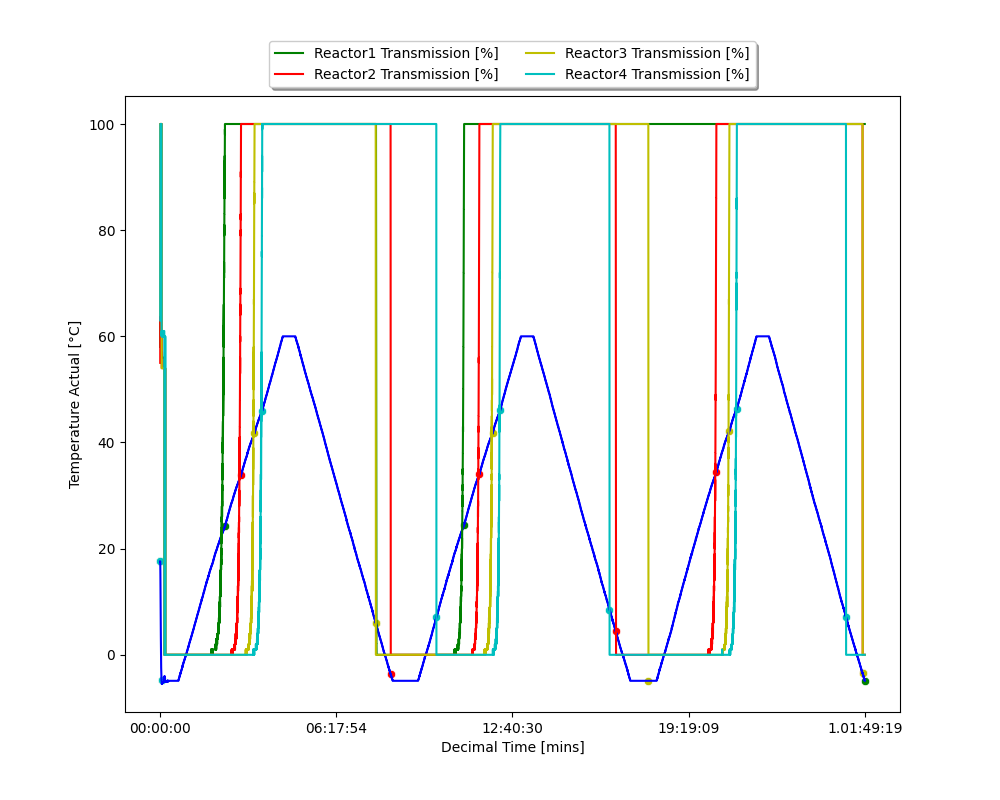
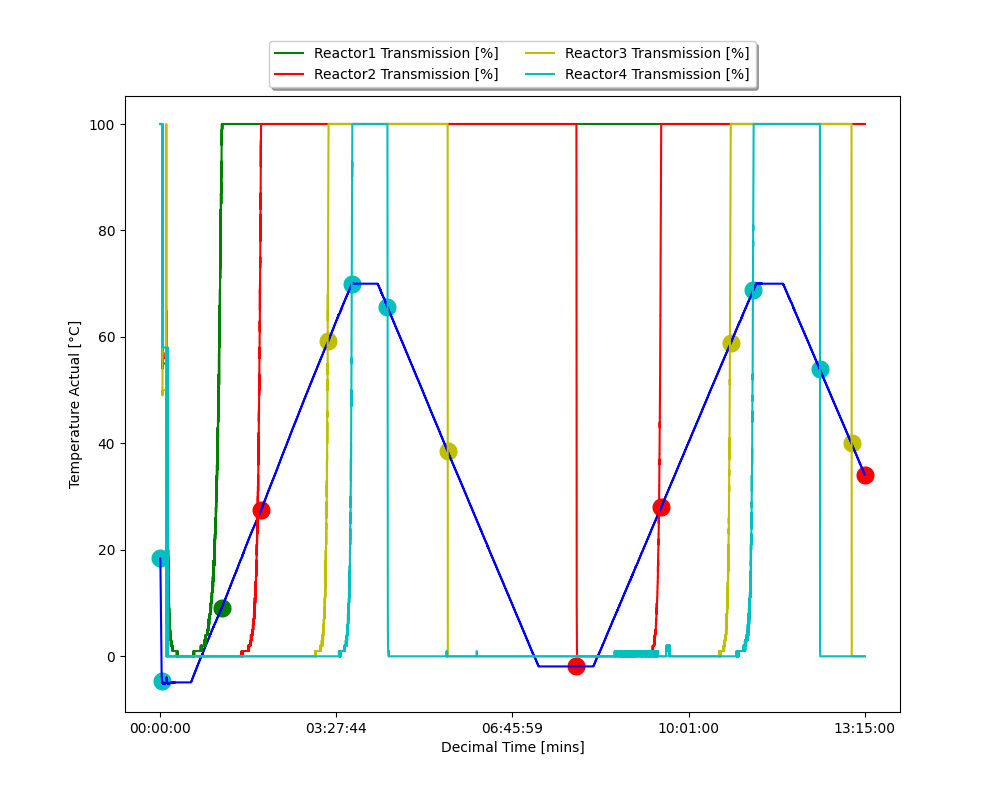
code refactor

diff --git a/utils.py b/utils.py
@@ -17,16 +17,14 @@ def get_columns(dataframe):
   Returns:
       list: A list of column names that partially match the strings in the columns_to_find list.
   """
-  columns_to_find = ["Decimal", "Temperature Actual", "Reactor"]
+  columns_to_find = {"Decimal", "Temperature Actual", "Reactor"}
   columns_to_extract = []
   for col in dataframe.columns:
-    for keyword in columns_to_find:
-      if keyword.lower() in col.lower():  # Case-insensitive matching
-        # Check for partial match but avoid full match
-        if col.lower() != keyword.lower():
-          columns_to_extract.append(col)
-          break  # Stop searching for the current column after a match is found
+        if any(keyword.lower() in col.lower() and col.lower() != keyword.lower() for keyword in columns_to_find):
+            columns_to_extract.append(col)  # Stop searching for the current column after a match is found
   return columns_to_extract
+
+
 
 def get_block_data(dataframe: pd.DataFrame) -> pd.DataFrame:
     """_summary_
@@ -38,10 +36,8 @@ def get_block_data(dataframe: pd.DataFrame) -> pd.DataFrame:
         pd.DataFrame: _description_
     """
 
-    index = dataframe[dataframe["Crystal16 Data Report File"] == "Data Block"].index
-    index = index.to_list()
-
-    raw_data = dataframe.iloc[index[0] :, :].reset_index(drop=True)
+    index = dataframe[dataframe["Crystal16 Data Report File"] == "Data Block"].index[0]
+    raw_data = dataframe.iloc[index :, :].reset_index(drop=True)
     raw_data.columns = raw_data.iloc[0]
     raw_data = raw_data.iloc[1:]
     raw_data.dropna(how='any', inplace=True)
@@ -53,6 +49,40 @@ def get_block_data(dataframe: pd.DataFrame) -> pd.DataFrame:
 
     return final_dataframe
 
+# def get_block_data(dataframe: pd.DataFrame) -> pd.DataFrame:
+#     index = dataframe[dataframe["Crystal16 Data Report File"] == "Data Block"].index[0]
+#     raw_data = dataframe.iloc[index:].copy()  # Copy to avoid modifying the original DataFrame
+#     raw_data.columns = raw_data.iloc[0]
+#     raw_data = raw_data.iloc[1:]
+#     raw_data = raw_data.dropna(how='any')
+#     raw_data = raw_data.loc[:, get_columns(raw_data)]
+#     return raw_data
+
+def convert_datatype(dataframe: pd.DataFrame) -> pd.DataFrame:
+    """Converts columns of a DataFrame to specified data types.
+
+    Args:
+        dataframe (pd.DataFrame): The DataFrame to convert data types.
+
+    Returns:
+        pd.DataFrame: The DataFrame with converted data types.
+    """
+    convert_dict: dict[str, type] = {
+        'Decimal Time [mins]': object,  # Assuming you don't want to convert time column
+        'Temperature Actual [°C]': float,
+        'Reactor1 Transmission [%]': int,
+        'Reactor2 Transmission [%]': int,
+        'Reactor3 Transmission [%]': int,
+        'Reactor4 Transmission [%]': int
+    }
+
+    for col, dtype in convert_dict.items():
+        try:
+            dataframe[col] = dataframe[col].astype(dtype)
+        except KeyError:
+            pass  # Skip if the column doesn't exist in the DataFrame
+
+    return dataframe
 
 def peak_detection(df, column):
     cloud_clear = {}
@@ -81,28 +111,8 @@ def peak_detection(df, column):
         exec(f"{['clear', 'cloud'][i]} = pd.DataFrame(data=temp_df)")
     return locals()['clear'], locals()['cloud'], peaks
 
-def convert_datatype(dataframe: pd.DataFrame) -> pd.DataFrame:
-    """_summary_
 
-    Args:
-        dataframe (pd.DataFrame): _description_
 
-    Returns:
-        pd.DataFrame: _description_
-    """
-    convert_dict = {
-    'Decimal Time [mins]': object,  # Assuming you don't want to convert time column
-    'Temperature Actual [°C]': float,
-    'Reactor1 Transmission [%]': int,
-    'Reactor2 Transmission [%]': int,
-    'Reactor3 Transmission [%]': int,
-    'Reactor4 Transmission [%]': int}
-
-    for col in convert_dict:
-        if col in dataframe.columns:
-           dataframe[col] =dataframe[col].astype(convert_dict[col])
-           
-    return dataframe
 
 def get_clear_and_cloud(dataframe: pd.DataFrame) -> dict:
     """_summary_
@@ -125,92 +135,171 @@ def get_clear_and_cloud(dataframe: pd.DataFrame) -> dict:
     return clear_dataframe, cloud_dataframe
 
 
+# def get_experiments_details(dataframe: pd.DataFrame) -> pd.DataFrame:
+#     """_summary_
+
+#     Args:
+#         dataframe (pd.DataFrame): raw data dataframe
+
+#     Returns:
+#         pd.DataFrame: extracted dataframe which will have information about reactors
+#     """
+   
+#     exp_index = dataframe[dataframe["Crystal16 Data Report File"] == "Experiment details"].index
+#     exp_idx = exp_index.to_list()
+#     labjournal_index = dataframe[dataframe["Crystal16 Data Report File"] == "Labjournal"].index
+#     labjournal_idx = labjournal_index.to_list()
+#     experiment_dataframe = dataframe.iloc[int(exp_idx[0]): labjournal_idx[0], :]
+#     # Filter rows where the first column contains "Reactor"
+#     reactor_rows = experiment_dataframe[experiment_dataframe.iloc[:, 0].str.contains('Reactor', na=False)]
+#     # Extract values from the first two columns
+#     extracted_data = reactor_rows.iloc[:, :2]
+
+#     return extracted_data
+
 def get_experiments_details(dataframe: pd.DataFrame) -> pd.DataFrame:
-    """_summary_
+    """Extracts details about reactors from the raw data.
 
     Args:
-        dataframe (pd.DataFrame): raw data dataframe
+        dataframe (pd.DataFrame): Raw data DataFrame.
 
     Returns:
-        pd.DataFrame: extracted dataframe which will have information about reactors
+        pd.DataFrame: DataFrame containing information about reactors.
     """
-   
-    exp_index = dataframe[dataframe["Crystal16 Data Report File"] == "Experiment details"].index
-    exp_idx = exp_index.to_list()
-    labjournal_index = dataframe[dataframe["Crystal16 Data Report File"] == "Labjournal"].index
-    labjournal_idx = labjournal_index.to_list()
-    experiment_dataframe = dataframe.iloc[int(exp_idx[0]): labjournal_idx[0], :]
-    # Filter rows where the first column contains "Reactor"
-    reactor_rows = experiment_dataframe[experiment_dataframe.iloc[:, 0].str.contains('Reactor', na=False)]
-    # Extract values from the first two columns
-    extracted_data = reactor_rows.iloc[:, :2]
+    exp_index = dataframe[dataframe["Crystal16 Data Report File"] == "Experiment details"].index[0]
+    labjournal_index = dataframe[dataframe["Crystal16 Data Report File"] == "Labjournal"].index[0]
+    experiment_dataframe = dataframe.loc[exp_index + 1: labjournal_index - 1]
+    return experiment_dataframe[experiment_dataframe.iloc[:, 0].str.contains('Reactor', na=False)]
 
-    return extracted_data
+
+
+# def get_reactor_info(extracted_dataframe: pd.DataFrame) -> dict:
+#     """_summary_
+
+#     Args:
+#         extracted_dataframe (pd.DataFrame): extracted dataframe which will have information about reactors
+
+#     Returns:
+#         dict: reactor information dictionary
+#     """
+#     reactor_info = {}
+#     for i in range(extracted_dataframe.shape[0]):
+#         reactor_name = extracted_dataframe.iloc[i, 0]
+#         val = extracted_dataframe.iloc[i, 1]
+#         conc = val.split('ml')[0] + "ml"
+#         solvent = val.split("in")[-1]
+#         reactor_info[reactor_name] = {'conc': conc, 'solvent': solvent}
+
+#     return reactor_info
 
 
 def get_reactor_info(extracted_dataframe: pd.DataFrame) -> dict:
-    """_summary_
+    """Extracts information about reactors from the extracted DataFrame.
 
     Args:
-        extracted_dataframe (pd.DataFrame): extracted dataframe which will have information about reactors
+        extracted_dataframe (pd.DataFrame): Extracted DataFrame containing information about reactors.
 
     Returns:
-        dict: reactor information dictionary
+        dict: Reactor information dictionary.
     """
     reactor_info = {}
-    for i in range(extracted_dataframe.shape[0]):
-        reactor_name = extracted_dataframe.iloc[i, 0]
-        val = extracted_dataframe.iloc[i, 1]
+    for index, row in extracted_dataframe.iterrows():
+        reactor_name = row.index[0]  # Get the name of the reactor from the index
+        val = row.iloc[0]  # Get the value associated with the reactor
         conc = val.split('ml')[0] + "ml"
         solvent = val.split("in")[-1]
         reactor_info[reactor_name] = {'conc': conc, 'solvent': solvent}
-
     return reactor_info
 
 
+
+# def plot_reactor(final_dataframe, clear_dataframe, cloud_dataframe):
+#    # Define colors and markers for clear and cloud data
+#     marker = 'o'
+#     # Create a new figure
+#     fig, ax = plt.subplots(figsize=(10, 8))
+#     # Plot temperature and transmission for each reactor
+#     for reactor_col in final_dataframe.columns:
+#         if 'Temperature' in reactor_col:
+#             sns.lineplot(data=final_dataframe, x='Decimal Time [mins]', y=reactor_col, color='b')
+#         elif 'Transmission' in reactor_col:
+#             reactor_num = reactor_col.split()[0][-1]  # Extract reactor number from column name
+#             clear_data = clear_dataframe[reactor_col]['Temps']
+#             cloud_data = cloud_dataframe[reactor_col]['Temps']
+#             clear_time = clear_dataframe[reactor_col]['Time']
+#             cloud_time = cloud_dataframe[reactor_col]['Time']
+            
+#             if reactor_num == '1':
+#                 sns.lineplot(data=final_dataframe, x='Decimal Time [mins]', y=reactor_col, color='g', label = reactor_col, ax= ax)
+#                 sns.scatterplot(x=clear_time, y=clear_data, color='g', marker=marker, ax= ax)
+#                 sns.scatterplot(x=cloud_time, y=cloud_data, color='g', marker=marker, ax= ax)
+#             elif reactor_num == '2':
+#                 sns.lineplot(data=final_dataframe, x='Decimal Time [mins]', y=reactor_col, color='r', label = reactor_col, ax= ax)
+#                 sns.scatterplot(x=clear_time, y=clear_data, color='r', marker=marker, ax= ax)
+#                 sns.scatterplot(x=cloud_time, y=cloud_data, color='r', marker=marker, ax= ax)
+#             elif reactor_num == '3':
+#                 sns.lineplot(data=final_dataframe, x='Decimal Time [mins]', y=reactor_col, color='y', label = reactor_col, ax= ax)
+#                 sns.scatterplot(x=clear_time, y=clear_data, color='y', marker=marker, ax= ax)
+#                 sns.scatterplot(x=cloud_time, y=cloud_data, color='y', marker=marker, ax= ax)
+#             elif reactor_num == '4':
+#                 sns.lineplot(data=final_dataframe, x='Decimal Time [mins]', y=reactor_col, color='c', label = reactor_col, ax= ax)
+#                 sns.scatterplot(x=clear_time, y=clear_data, color='c', marker=marker, ax= ax)
+#                 sns.scatterplot(x=cloud_time, y=cloud_data, color='c', marker=marker, ax= ax)
+    
+    
+ 
+#     num_data_points = len(final_dataframe['Decimal Time [mins]'])
+#     num_ticks = 5
+#     ticks_positions = np.linspace(0, num_data_points - 1, num_ticks, dtype=int)
+#     ax.set_xticks(final_dataframe['Decimal Time [mins]'][ticks_positions])
+#     # Add legend
+#     ax.legend(loc='upper center', bbox_to_anchor=(0.5, 1.10), shadow=True, ncol=2)
+#     st.pyplot(plt.gcf())  # Pass the current figure (gcf)
+#     plot_binary = io.BytesIO()
+#     plt.savefig(plot_binary, format='png')
+#     plot_binary.seek(0)
+#     return plot_binary
+
+
+
 def plot_reactor(final_dataframe, clear_dataframe, cloud_dataframe):
-   # Define colors and markers for clear and cloud data
+    # Define colors for different reactors
+    colors = ['g', 'r', 'y', 'c']
     marker = 'o'
+    marker_size = 200
     # Create a new figure
     fig, ax = plt.subplots(figsize=(10, 8))
+    
     # Plot temperature and transmission for each reactor
     for reactor_col in final_dataframe.columns:
         if 'Temperature' in reactor_col:
-            sns.lineplot(data=final_dataframe, x='Decimal Time [mins]', y=reactor_col, color='b')
+            sns.lineplot(data=final_dataframe, x='Decimal Time [mins]', y=reactor_col, color='b', ax=ax)
         elif 'Transmission' in reactor_col:
-            reactor_num = reactor_col.split()[0][-1]  # Extract reactor number from column name
+            reactor_num = int(reactor_col.split()[0][-1]) - 1  # Extract reactor number from column name
+            
+            # Plot transmission data and scatter points
+            sns.lineplot(data=final_dataframe, x='Decimal Time [mins]', y=reactor_col, color=colors[reactor_num], label=reactor_col, ax=ax)
             clear_data = clear_dataframe[reactor_col]['Temps']
             cloud_data = cloud_dataframe[reactor_col]['Temps']
             clear_time = clear_dataframe[reactor_col]['Time']
             cloud_time = cloud_dataframe[reactor_col]['Time']
-            
-            if reactor_num == '1':
-                sns.lineplot(data=final_dataframe, x='Decimal Time [mins]', y=reactor_col, color='g', label = reactor_col, ax= ax)
-                sns.scatterplot(x=clear_time, y=clear_data, color='g', marker=marker, ax= ax)
-                sns.scatterplot(x=cloud_time, y=cloud_data, color='g', marker=marker, ax= ax)
-            elif reactor_num == '2':
-                sns.lineplot(data=final_dataframe, x='Decimal Time [mins]', y=reactor_col, color='r', label = reactor_col, ax= ax)
-                sns.scatterplot(x=clear_time, y=clear_data, color='r', marker=marker, ax= ax)
-                sns.scatterplot(x=cloud_time, y=cloud_data, color='r', marker=marker, ax= ax)
-            elif reactor_num == '3':
-                sns.lineplot(data=final_dataframe, x='Decimal Time [mins]', y=reactor_col, color='y', label = reactor_col, ax= ax)
-                sns.scatterplot(x=clear_time, y=clear_data, color='y', marker=marker, ax= ax)
-                sns.scatterplot(x=cloud_time, y=cloud_data, color='y', marker=marker, ax= ax)
-            elif reactor_num == '4':
-                sns.lineplot(data=final_dataframe, x='Decimal Time [mins]', y=reactor_col, color='c', label = reactor_col, ax= ax)
-                sns.scatterplot(x=clear_time, y=clear_data, color='c', marker=marker, ax= ax)
-                sns.scatterplot(x=cloud_time, y=cloud_data, color='c', marker=marker, ax= ax)
+            sns.scatterplot(x=clear_time, y=clear_data, color=colors[reactor_num], s= marker_size, marker=marker, ax=ax, legend= False)
+            sns.scatterplot(x=cloud_time, y=cloud_data, color=colors[reactor_num], s= marker_size, marker=marker, ax=ax, legend = False)
     
-    
- 
+    # Set xticks
     num_data_points = len(final_dataframe['Decimal Time [mins]'])
     num_ticks = 5
     ticks_positions = np.linspace(0, num_data_points - 1, num_ticks, dtype=int)
     ax.set_xticks(final_dataframe['Decimal Time [mins]'][ticks_positions])
-    # Add legend
+    
+    # Add legend outside the plot
     ax.legend(loc='upper center', bbox_to_anchor=(0.5, 1.10), shadow=True, ncol=2)
-    st.pyplot(plt.gcf())  # Pass the current figure (gcf)
+    
+    # Save plot to BytesIO buffer
     plot_binary = io.BytesIO()
     plt.savefig(plot_binary, format='png')
     plot_binary.seek(0)
+
+    st.pyplot(plt.gcf())
+    
     return plot_binary

diff --git a/main.py b/main.py
@@ -1,6 +1,11 @@
 import streamlit as st
 import pandas as pd
-from utils import get_block_data, get_clear_and_cloud, convert_datatype, get_experiments_details, get_reactor_info, plot_reactor
+from utils import (get_block_data, 
+                   get_clear_and_cloud, 
+                    convert_datatype, 
+                    get_experiments_details, 
+                    get_reactor_info,
+                    plot_reactor)
 import matplotlib.pyplot as plt
 import re
 import io 
@@ -31,7 +36,7 @@ def download_btn(binary_image):
                     mime="image/png"
                 )
 
-@st.cache_data
+
 def read_file(uploaded_file):
     # Read CSV file as a text file
     lines = uploaded_file.getvalue().decode('utf-8').splitlines()
@@ -62,16 +67,8 @@ if st.button("Plot Graph"):
 
             reactor_dataframe = get_experiments_details(dataframe= df)
             reactor_info = get_reactor_info(extracted_dataframe= reactor_dataframe)
-            # st.write(reactor_info)
-            
-            
-        
-            plot = plot_reactor(final_dataframe= block_data, clear_dataframe= clear, cloud_dataframe= cloud)
-            # st.pyplot(plot)
 
-              # Move the stream pointer to the beginning
-            # Close the plot to release resources
-            
+            plot = plot_reactor(final_dataframe= block_data, clear_dataframe= clear, cloud_dataframe= cloud)
 
             download_btn(binary_image= plot)
-            st.cache_data.clear()
+
